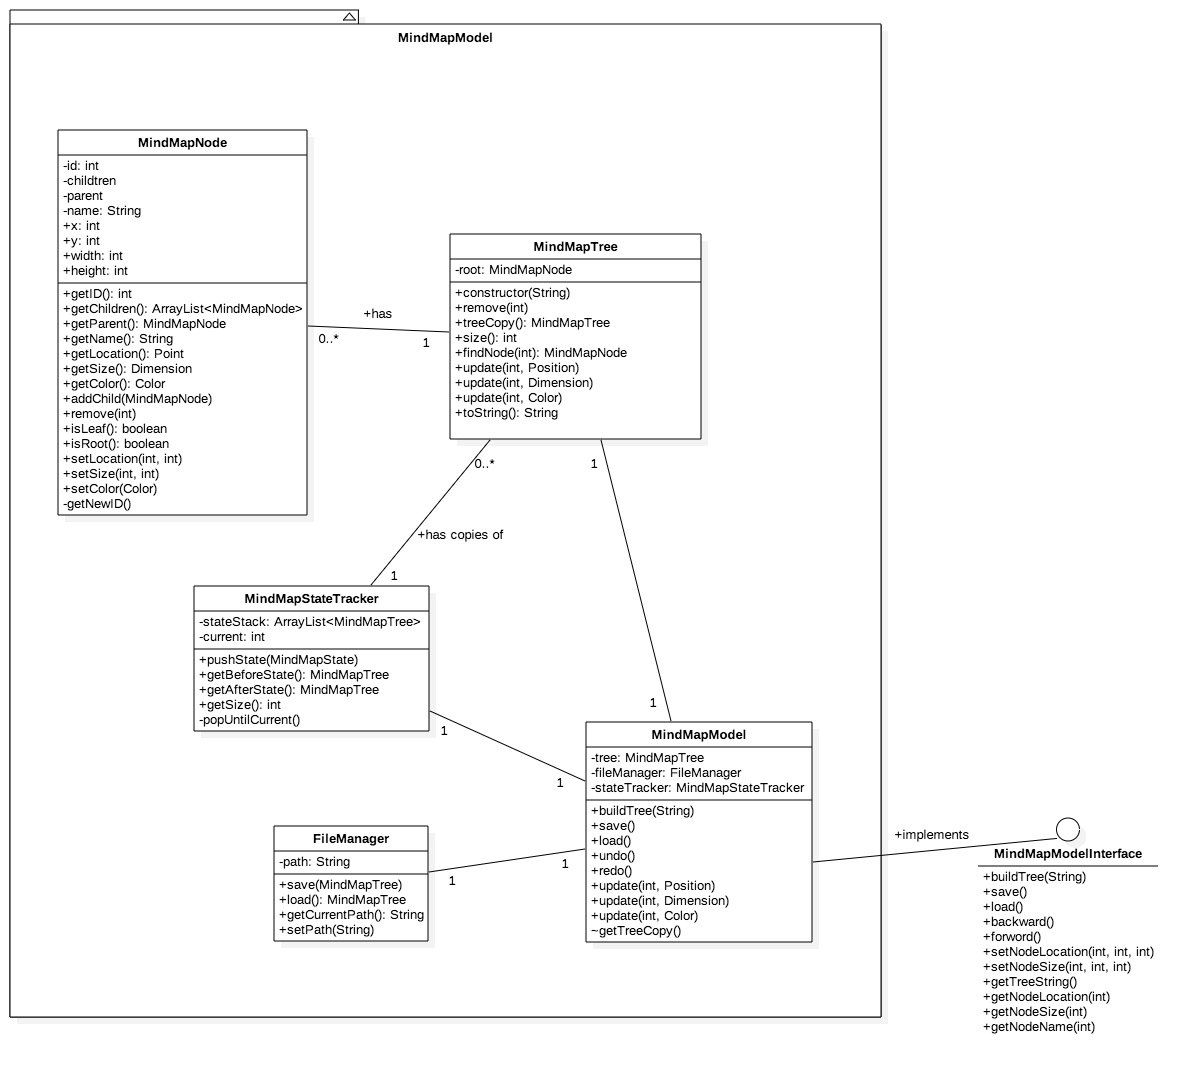
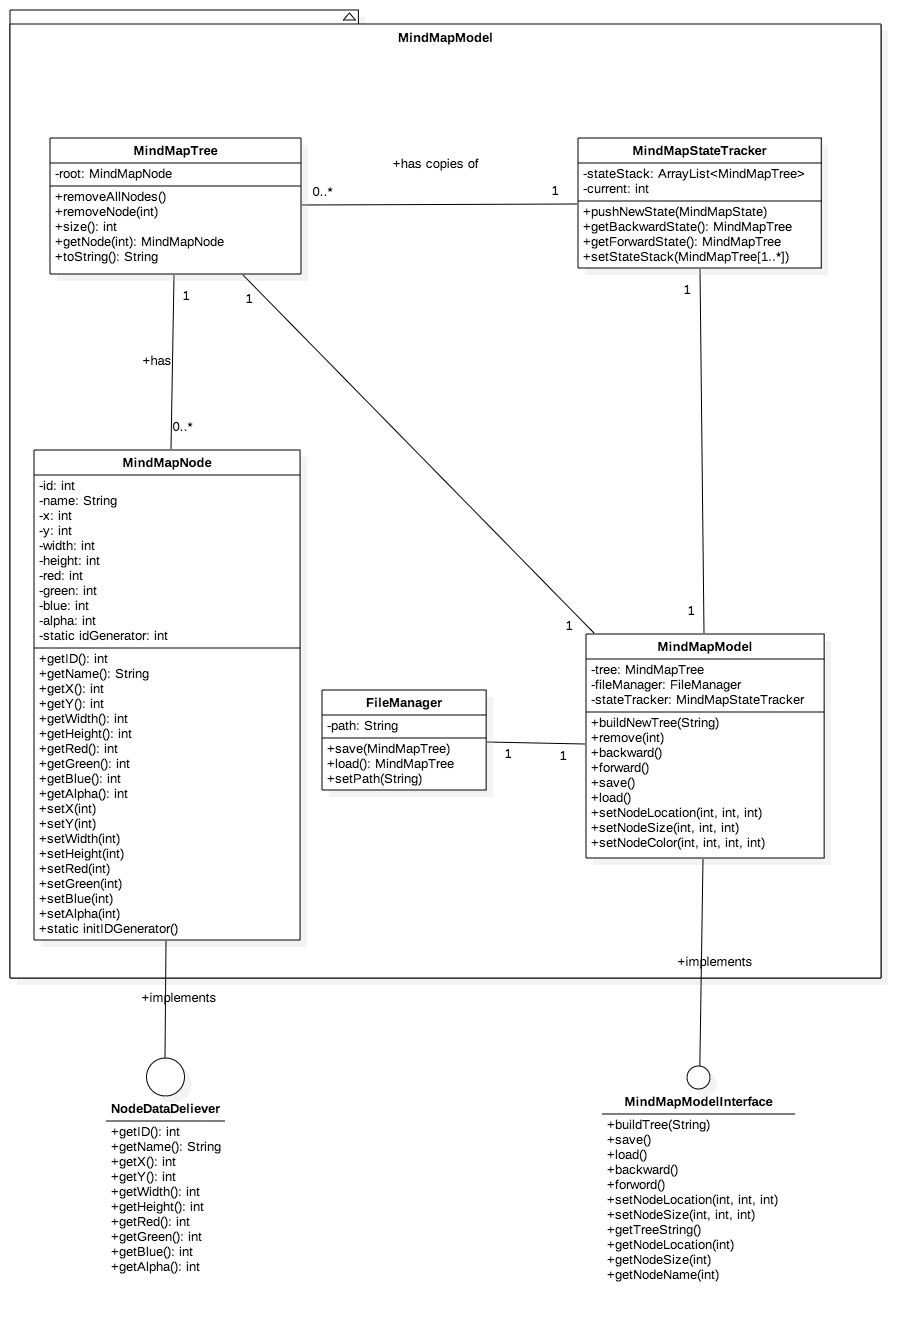
make base shape of model package

diff --git a/src/com/gonichiwa/model/MindMapModel.java b/src/com/gonichiwa/model/MindMapModel.java
@@ -1,5 +1,109 @@
 package com.gonichiwa.model;
 
-public class MindMapModel {
+import java.util.Observable;
+
+import com.gonichiwa.mindmapinterface.NodeDataDeliver;
+
+/**
+ * Observable
+ * 
+ * if model send notification with a specific node, view will change that node.
+ * else if model send null object as a argument, view will change all nodes.
+ * 
+ * @author penubo
+ *
+ */
+public class MindMapModel extends Observable{
+	
+	public MindMapTree tree;
+	private MindMapStateTracker stateTracker;
+	private MindMapFileManager fileManager;
+	
+	public MindMapModel() {
+		tree = new MindMapTree();
+		stateTracker = new MindMapStateTracker();
+		fileManager = new MindMapFileManager();
+	}
+
+	/**
+	 * Modifier
+	 * build tree with a given text.
+	 * @param text
+	 * 		the text which is given from TextAreaPane.
+	 */
+	public void buildNewTree(String text) {
+		tree.removeAllNodes();
+		//TODO: build new tree
+	}
+	
+	/**
+	 * remove the certain node which has given Id.
+	 * @param nodeID
+	 * 		id of the node which is target to be deleted in the tree.
+	 */
+	public void remove(int nodeID) {
+		tree.removeNode(nodeID);
+		setChanged();
+		notifyObservers(null);
+	}
+	
+	public void backward() {
+		// TODO:modify tree for Joon
+	}
+	
+	public void forward() {
+		// TODO:modify tree for Joon
+	}
+	
+	public void save() {
+		// TODO: save data for Joon
+	}
+	
+	public void load() {
+		// TODO: load data for Joon
+	}
+	
+	public void setNodeLocation(int nodeID, int x, int y) {
+		MindMapNode node = tree.getNode(nodeID);
+		node.setX(x);
+		node.setY(y);
+		setChanged();
+		notifyObservers((NodeDataDeliver) node);
+	}
+	
+	public void setNodeSize(int nodeID, int width, int height) {
+		MindMapNode node = tree.getNode(nodeID);
+		node.setWidth(width);
+		node.setHeight(height);
+		setChanged();
+		notifyObservers((NodeDataDeliver) node);
+	}
+	
+	public void setNodeColor(int nodeID, int red, int green, int blue, int alpha) {
+		MindMapNode node = tree.getNode(nodeID);
+		node.setRed(red);
+		node.setGreen(green);
+		node.setBlue(blue);
+		node.setAlpha(alpha);
+		setChanged();
+		notifyObservers((NodeDataDeliver) node);
+	}
+	
+	public void setNodeColor(int nodeID, int red, int green, int blue) {
+		setNodeColor(nodeID, red, green, blue, 255);
+	}
+	
 
 }
+
+
+
+
+
+
+
+
+
+
+
+

diff --git a/src/com/gonichiwa/model/MindMapNode.java b/src/com/gonichiwa/model/MindMapNode.java
@@ -1,6 +1,8 @@
 package com.gonichiwa.model;
 
-class MindMapNode {
+import com.gonichiwa.mindmapinterface.NodeDataDeliver;
+
+class MindMapNode implements NodeDataDeliver {
 	private static int idGenerator = 0;
 	private final int id;
 	private int x, y, width, height;
@@ -11,10 +13,20 @@ class MindMapNode {
 	
 	/**
 	 * constructor
+	 * please do not think the way to initialize x, y ,width, height values at this point OK?
 	 */
-	public MindMapNode() {
-		id = ++idGenerator;
+	MindMapNode(String name) {
+		this(name, 0, 0, 0, 0); 
 		// 2. node initailize implementation
+	}
+	
+	MindMapNode(String name, int x, int y, int width, int height) {
+		id = ++idGenerator;
+		this.name = name;
+		this.x = x;
+		this.y = y;
+		this.width = width;
+		this.height = height;
 	}
 	
 	// 3. node method implementation
@@ -83,39 +95,43 @@ class MindMapNode {
 	}
 	
 	public void setRed(int redValue) {
-		if(redValue > 255)
+		if (redValue > 255)
 			red = 255;
-		else if(redValue < 0) 
+		else if (redValue < 0) 
 			red = 0;
 		else
 			red = redValue;
 	}
 	
 	public void setGreen(int greenValue) {
-		if(greenValue > 255)
+		if (greenValue > 255)
 			green = 255;
-		else if(greenValue < 0) 
+		else if (greenValue < 0) 
 			green = 0;
 		else
 			green = greenValue;
 	}
 	
 	public void setBlue(int blueValue) {
-		if(blueValue > 255)
+		if (blueValue > 255)
 			blue = 255;
-		else if(blueValue < 0) 
+		else if (blueValue < 0) 
 			blue = 0;
 		else
 			blue = blueValue;
 	}
 	
 	public void setAlpha(int alphaValue) {
-		if(alphaValue > 255)
+		if (alphaValue > 255)
 			alpha = 255;
-		else if(alphaValue < 0) 
+		else if (alphaValue < 0) 
 			alpha = 0;
 		else
 			alpha = alphaValue;
+	}
+	
+	public static void initIDGenerator() {
+		idGenerator = 0;
 	}
 }
 

diff --git a/src/com/gonichiwa/model/MindMapTree.java b/src/com/gonichiwa/model/MindMapTree.java
@@ -1,12 +1,79 @@
 package com.gonichiwa.model;
 
 class MindMapTree {
-	private MindMapNode tree;
+	private MindMapNode root;
 	
 	/**
 	 * constructor
 	 */
-	public MindMapTree() {
-		
+	MindMapTree() {
+		root = null;
 	}
+	
+	/**
+	 * Modifier
+	 * 
+	 * remove all nodes in the current tree.
+	 */
+	public void removeAllNodes() {
+		MindMapNode.initIDGenerator();
+		if(root != null)
+			root = null;
+	}
+	
+	/**
+	 * remove certain node which has given id.
+	 * @param nodeID
+	 * 		id of the node which we want to modify.
+	 */
+	public void removeNode(int nodeID) {
+		//TODO: cheer up~!
+	}
+	
+	/**
+	 * Accessor
+	 * 
+	 * traverse the tree and return the number of nodes.
+	 * @return
+	 * 		the number of nodes in the tree.
+	 */
+	public int size() {
+		//TODO: good luck!
+		return 0;
+	}
+	
+	/**
+	 * Accessor
+	 * 
+	 * find the certain node by it's id.
+	 * @param nodeID
+	 * 		id of the node which we want to modify.
+	 * @return
+	 * 		the node which has given id in the tree.
+	 */
+	public MindMapNode getNode(int nodeID) {
+		//TODO: Thank you!~
+		return null;
+	}
+	
+	
+	/**
+	 * convert tree to String.
+	 * see the example below.
+	 * 
+	 * e.g. 
+	 * 
+	 * Animal('\n')
+	 * ('\t')Mammal('\n')
+	 *       ('\t')Human('\n')
+	 *       ('\t')Monkey('\n')
+	 *     
+	 * 
+	 * 
+	 */
+	public String toString() {
+		//TODO: for Joon
+		return null;
+	}
+	
 }

diff --git a/src/com/gonichiwa/model/MindMapStateTracker.java b/src/com/gonichiwa/model/MindMapStateTracker.java
@@ -1,0 +1,40 @@
+package com.gonichiwa.model;
+
+import java.util.ArrayList;
+
+//TODO: not be tested yet
+class MindMapStateTracker {
+	private ArrayList<MindMapTree> stateStack;
+	private int current;
+	
+	MindMapStateTracker() {
+		stateStack = new ArrayList<MindMapTree>();
+		current = -1;
+	}
+	
+	public void pushNewState(MindMapTree newState) {
+		if(current < stateStack.size()-1) {
+			for(int i = current+1; i < stateStack.size(); i++) {
+				stateStack.remove(i);
+			}
+			stateStack.trimToSize();
+		}
+		stateStack.add(newState);
+		current++;
+	}
+	
+	public MindMapTree getBackwardState() {
+		current--;
+		return stateStack.get(current);
+	}
+	
+	public MindMapTree getForwardState() {
+		if(++current > stateStack.size()) 
+			current = stateStack.size()-1;
+		return stateStack.get(current);
+	}
+	
+	public void setStateStack(ArrayList<MindMapTree> newStateStack) {
+		stateStack = newStateStack;
+	}
+}

diff --git a/src/com/gonichiwa/mindmapinterface/NodeDataDeliver.java b/src/com/gonichiwa/mindmapinterface/NodeDataDeliver.java
@@ -1,0 +1,24 @@
+package com.gonichiwa.mindmapinterface;
+
+public interface NodeDataDeliver {
+	
+	public int getID();
+	
+	public String getName();
+	
+	public int getX();
+	
+	public int getY(); 
+	
+	public int getWidth();
+	
+	public int getHeight();
+	
+	public int getRedColor();
+	
+	public int getGreenColor();
+	
+	public int getBlueColor();
+	
+	public int getAlpha();
+}

diff --git a/src/com/gonichiwa/model/MindMapFileManager.java b/src/com/gonichiwa/model/MindMapFileManager.java
@@ -1,0 +1,24 @@
+package com.gonichiwa.model;
+
+
+class MindMapFileManager {
+	private String path;
+	
+	MindMapFileManager() {
+		path = null;
+	}
+	
+	void setPath(String newPath) {
+		//TODO: Joon
+	}
+	
+	void save() {
+		//TODO: Joon
+		// fix type etc.
+	}
+	
+	void load() {
+		//TODO: Joon
+		// fix type etc.
+	}
+}
